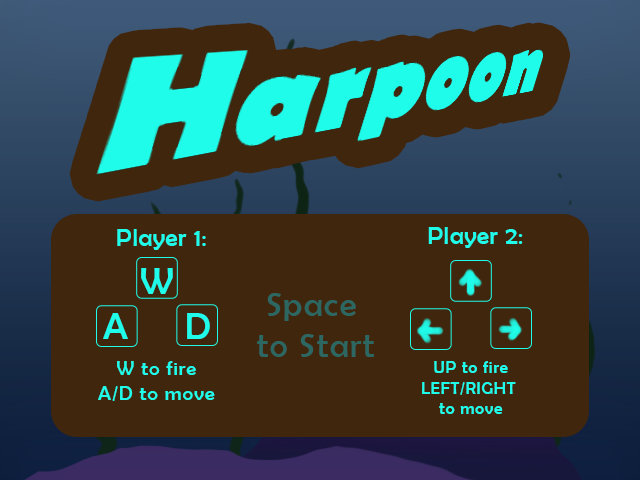
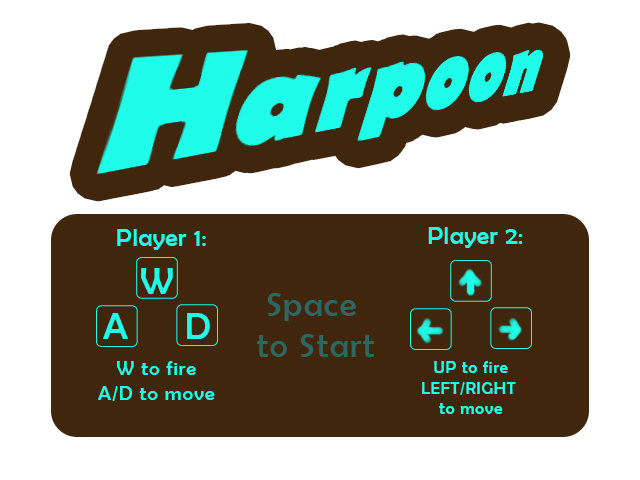
New menu and game over screens, collisons fixed

diff --git a/src/scenes/Play.js b/src/scenes/Play.js
@@ -17,29 +17,19 @@ class Play extends Phaser.Scene {
         this.background2 = this.add.tileSprite(0, 0, 640, 480, 'background2').setOrigin(0,0);
         this.background3 = this.add.tileSprite(0, 0, 640, 480, 'background3').setOrigin(0,0);
         this.background4 = this.add.tileSprite(0, 0, 640, 480, 'background4').setOrigin(0,0);
-        //this.add.text(320, 240, "play scene").setOrigin(0.5, 0.5);
 
-        this.add.rectangle(0, borderUISize + borderPadding, config.width, borderUISize * 2, 0x00ff00).setOrigin(0,0);
+        this.add.rectangle(0, borderUISize + borderPadding, config.width, borderUISize * 2, 0x41260e).setOrigin(0,0);
 
-        //this.add.rectangle(0, 0, config.width, borderUISize, 0xffffff).setOrigin(0,0);
-        //this.add.rectangle(0, config.height-borderUISize, config.width, borderUISize, 0xffffff).setOrigin(0,0);
-        //this.add.rectangle(0, 0, borderUISize, config.height, 0xffffff).setOrigin(0,0);
-        //this.add.rectangle(config.width-borderUISize, 0, borderUISize, config.height, 0xffffff).setOrigin(0,0);
-        //this.add.rectangle(config.width/2, 0, borderPadding, config.height, 0xffffff).setOrigin(0.5, 0);
+        this.p1Harpoon = new Harpoon(this, config.width/4, config.height - borderUISize - borderPadding, 'harpoon').setOrigin(0.5, 0);
+        this.p2Harpoon = new Harpoon(this, 3*config.width/4, config.height - borderUISize - borderPadding, 'harpoon').setOrigin(0.5, 0);
 
-        this.p1Rocket = new Rocket(this, config.width/4, config.height - borderUISize - borderPadding, 'harpoon').setOrigin(0.5, 0);
-        this.p2Rocket = new Rocket(this, 3*config.width/4, config.height - borderUISize - borderPadding, 'harpoon').setOrigin(0.5, 0);
+        this.fish01 = new FishRtoL(this, config.width + borderUISize * 6, borderUISize * 4, 'fish', 0, 30).setOrigin(0, 0);
+        this.fish02 = new FishRtoL(this, config.width + borderUISize * 3, borderUISize * 5 + borderPadding * 2, 'fish', 0, 20).setOrigin(0, 0);
+        this.fish03 = new FishRtoL(this, config.width, borderUISize * 6 + borderPadding * 4, 'fish', 0, 10).setOrigin(0, 0);
 
-        this.ship01 = new Spaceship(this, config.width + borderUISize * 6, borderUISize * 4, 'fish', 0, 30).setOrigin(0, 0);
-        this.ship02 = new Spaceship(this, config.width + borderUISize * 3, borderUISize * 5 + borderPadding * 2, 'fish', 0, 20).setOrigin(0, 0);
-        this.ship03 = new Spaceship(this, config.width, borderUISize * 6 + borderPadding * 4, 'fish', 0, 10).setOrigin(0, 0);
-
-        this.ship04 = new Spaceship(this, 0 - borderUISize * 6, borderUISize * 4, 'fish2', 0, 30).setOrigin(1, 0);
-        this.ship05 = new Spaceship(this, 0 - borderUISize * 3, borderUISize * 5 + borderPadding * 2, 'fish2', 0, 20).setOrigin(1, 0);
-        this.ship06 = new Spaceship(this, 0, borderUISize * 6 + borderPadding * 4, 'fish2', 0, 10).setOrigin(1, 0);
-        this.ship04.dir = 'LtoR';
-        this.ship05.dir = 'LtoR';
-        this.ship06.dir = 'LtoR';
+        this.fish04 = new FishLtoR(this, 0 - borderUISize * 6, borderUISize * 4, 'fish2', 0, 30).setOrigin(1, 0);
+        this.fish05 = new FishLtoR(this, 0 - borderUISize * 3, borderUISize * 5 + borderPadding * 2, 'fish2', 0, 20).setOrigin(1, 0);
+        this.fish06 = new FishLtoR(this, 0, borderUISize * 6 + borderPadding * 4, 'fish2', 0, 10).setOrigin(1, 0);
 
         //Player 1 controls
         keyW = this.input.keyboard.addKey(Phaser.Input.Keyboard.KeyCodes.W);
@@ -66,8 +56,8 @@ class Play extends Phaser.Scene {
         let scoreConfig = {
             fontFamily: 'Courier',
             fontSize: '28px',
-            backgroundColor: '#F3B141',
-            color: '#843605',
+            backgroundColor: '#41260e',
+            color: '#1ffce9',
             align: 'right',
             padding: {
                 top: 5,
@@ -83,8 +73,14 @@ class Play extends Phaser.Scene {
 
         scoreConfig.fixedWidth = 0;
         this.clock = this.time.delayedCall(game.settings.gameTimer, () => {
-            this.add.text(config.width/2, config.height/2, 'GAME OVER', scoreConfig).setOrigin(0.5);
-            this.add.text(config.width/2, config.height/2 + 64, 'Press (R) to Restart or <- for Menu', scoreConfig).setOrigin(0.5);
+            if(this.p1Score > this.p2Score){
+            this.add.text(config.width/2, config.height/2, 'Player 1 Wins!', scoreConfig).setOrigin(0.5);
+            } else if(this.p2Score > this.p1Score){
+                this.add.text(config.width/2, config.height/2, 'Player 2 Wins!', scoreConfig).setOrigin(0.5);
+            } else {
+                this.add.text(config.width/2, config.height/2, 'Draw!', scoreConfig).setOrigin(0.5);
+            }
+            this.add.text(config.width/2, config.height/2 + 64, 'Space to Restart\n\t\tESC for Menu', scoreConfig).setOrigin(0.5);
             this.gameOver = true;
         }, null, this);
     }
@@ -96,12 +92,12 @@ class Play extends Phaser.Scene {
         if(!this.gameOver) {
             this.p1_update();
             this.p2_update();
-            this.shipRtoL_update(this.ship01);
-            this.shipRtoL_update(this.ship02);
-            this.shipRtoL_update(this.ship03);
-            this.shipLtoR_update(this.ship04);
-            this.shipLtoR_update(this.ship05);
-            this.shipLtoR_update(this.ship06);
+            this.fish01.update();
+            this.fish02.update();
+            this.fish03.update();
+            this.fish04.update();
+            this.fish05.update();
+            this.fish06.update();
             
         }
 
@@ -112,152 +108,91 @@ class Play extends Phaser.Scene {
             this.scene.start('menu');
         }
 
-        if(this.RtoLcheckCollision(this.p2Rocket, this.ship01)
-         || this.RtoLcheckCollision(this.p1Rocket, this.ship01)) {
-            this.shipExplode(this.ship01);
-            if(this.p2Rocket.y >= this.ship01.y) {
-                this.p2Rocket.reset();
-            } else {
-                this.p1Rocket.reset();
-            }
+        if(this.checkCollision(this.p2Harpoon, this.fish01)
+         || this.checkCollision(this.p1Harpoon, this.fish01)) {
+            this.shipExplode(this.fish01);
         }
-        if(this.RtoLcheckCollision(this.p2Rocket, this.ship02)
-         || this.RtoLcheckCollision(this.p1Rocket, this.ship02)) {
-            this.shipExplode(this.ship02);
-            if(this.p2Rocket.y >= this.ship02.y) {
-                this.p2Rocket.reset();
-            } else {
-                this.p1Rocket.reset();
-            }
+        if(this.checkCollision(this.p2Harpoon, this.fish06)
+         || this.checkCollision(this.p1Harpoon, this.fish06)) {
+            this.shipExplode(this.fish06);
         }
-        if(this.RtoLcheckCollision(this.p2Rocket, this.ship03)
-         || this.RtoLcheckCollision(this.p1Rocket, this.ship03)) {
-            this.shipExplode(this.ship03);
-            if(this.p2Rocket.y >= this.ship03.y) {
-                this.p2Rocket.reset();
-            } else {
-                this.p1Rocket.reset();
-            }
+        if(this.checkCollision(this.p2Harpoon, this.fish02)
+         || this.checkCollision(this.p1Harpoon, this.fish02)) {
+            this.shipExplode(this.fish02);
         }
-        if(this.LtoRcheckCollision(this.p2Rocket, this.ship04)
-         || this.LtoRcheckCollision(this.p1Rocket, this.ship04)) {
-            this.shipExplode(this.ship04);
-            if(this.p2Rocket.y >= this.ship04.y) {
-                this.p2Rocket.reset();
-            } else {
-                this.p1Rocket.reset();
-            }
+        if(this.checkCollision(this.p2Harpoon, this.fish03)
+         || this.checkCollision(this.p1Harpoon, this.fish03)) {
+            this.shipExplode(this.fish03);
         }
-        if(this.LtoRcheckCollision(this.p2Rocket, this.ship05) 
-        || this.LtoRcheckCollision(this.p1Rocket, this.ship05)) {
-            this.shipExplode(this.ship05);
-            if(this.p2Rocket.y >= this.ship05.y) {
-                this.p2Rocket.reset();
-            } else {
-                this.p1Rocket.reset();
-            }
+        if(this.checkCollision(this.p2Harpoon, this.fish04)
+         || this.checkCollision(this.p1Harpoon, this.fish04)) {
+            this.shipExplode(this.fish04);
         }
-        if(this.LtoRcheckCollision(this.p2Rocket, this.ship06)
-         || this.LtoRcheckCollision(this.p1Rocket, this.ship06)) {
-            this.shipExplode(this.ship06);
-            if(this.p2Rocket.y >= this.ship06.y) {
-                this.p2Rocket.reset();
-            } else {
-                this.p1Rocket.reset();
-            }
+        if(this.checkCollision(this.p2Harpoon, this.fish05)
+         || this.checkCollision(this.p1Harpoon, this.fish05)) {
+            this.shipExplode(this.fish05);
         }
     }
 
     p1_update() {
-        if(!this.p1Rocket.isFiring) {
-            if(keyA.isDown && this.p1Rocket.x >= borderUISize + this.p1Rocket.width) {
-                this.p1Rocket.x -= this.p1Rocket.moveSpeed;
-            } else if(keyD.isDown && this.p1Rocket.x <= config.width/2 - this.p1Rocket.width) {
-                this.p1Rocket.x += this.p1Rocket.moveSpeed;
+        if(!this.p1Harpoon.isFiring) {
+            if(keyA.isDown && this.p1Harpoon.x >= borderUISize + this.p1Harpoon.width) {
+                this.p1Harpoon.x -= this.p1Harpoon.moveSpeed;
+            } else if(keyD.isDown && this.p1Harpoon.x <= config.width/2 - this.p1Harpoon.width) {
+                this.p1Harpoon.x += this.p1Harpoon.moveSpeed;
             }
         }
         if(Phaser.Input.Keyboard.JustDown(keyW)) {
-            if(this.p1Rocket.isFiring === false){
-                this.p1Rocket.sfxRocket.play();
+            if(this.p1Harpoon.isFiring === false){
+                this.p1Harpoon.sfxRocket.play();
             }
-            this.p1Rocket.isFiring = true;
+            this.p1Harpoon.isFiring = true;
         }
-        if(this.p1Rocket.isFiring && this.p1Rocket.y >= borderUISize * 3 + borderPadding) {
-            this.p1Rocket.y -= this.p1Rocket.moveSpeed;
+        if(this.p1Harpoon.isFiring && this.p1Harpoon.y >= borderUISize * 3 + borderPadding) {
+            this.p1Harpoon.y -= this.p1Harpoon.moveSpeed;
         }
-        if(this.p1Rocket.y <= borderUISize * 3 + borderPadding) {
-            this.p1Rocket.isFiring = false;
-            this.p1Rocket.y = config.height - borderUISize - borderPadding;
+        if(this.p1Harpoon.y <= borderUISize * 3 + borderPadding) {
+            this.p1Harpoon.isFiring = false;
+            this.p1Harpoon.y = config.height - borderUISize - borderPadding;
         }
     }
 
     p2_update() {
-        if(!this.p2Rocket.isFiring) {
-            if(keyLEFT.isDown && this.p2Rocket.x >= config.width/2 + this.p2Rocket.width) {
-                this.p2Rocket.x -= this.p2Rocket.moveSpeed;
-            } else if(keyRIGHT.isDown && this.p2Rocket.x <= config.width - borderUISize - this.p2Rocket.width) {
-                this.p2Rocket.x += this.p2Rocket.moveSpeed;
+        if(!this.p2Harpoon.isFiring) {
+            if(keyLEFT.isDown && this.p2Harpoon.x >= config.width/2 + this.p2Harpoon.width) {
+                this.p2Harpoon.x -= this.p2Harpoon.moveSpeed;
+            } else if(keyRIGHT.isDown && this.p2Harpoon.x <= config.width - borderUISize - this.p2Harpoon.width) {
+                this.p2Harpoon.x += this.p2Harpoon.moveSpeed;
             }
         }
         if(Phaser.Input.Keyboard.JustDown(keyUP)) {
-            if(this.p2Rocket.isFiring === false){
-                this.p2Rocket.sfxRocket.play();
+            if(this.p2Harpoon.isFiring === false){
+                this.p2Harpoon.sfxRocket.play();
             }
-            this.p2Rocket.isFiring = true;
+            this.p2Harpoon.isFiring = true;
         }
-        if(this.p2Rocket.isFiring && this.p2Rocket.y >= borderUISize * 3 + borderPadding) {
-            this.p2Rocket.y -= this.p2Rocket.moveSpeed;
+        if(this.p2Harpoon.isFiring && this.p2Harpoon.y >= borderUISize * 3 + borderPadding) {
+            this.p2Harpoon.y -= this.p2Harpoon.moveSpeed;
         }
-        if(this.p2Rocket.y <= borderUISize * 3 + borderPadding) {
-            this.p2Rocket.isFiring = false;
-            this.p2Rocket.y = config.height - borderUISize - borderPadding;
-        }
-    }
-
-    shipLtoR_update(ship) {
-        ship.x += ship.moveSpeed;
-        if(ship.x >= config.width + ship.width) {
-            ship.x = 0;
+        if(this.p2Harpoon.y <= borderUISize * 3 + borderPadding) {
+            this.p2Harpoon.isFiring = false;
+            this.p2Harpoon.y = config.height - borderUISize - borderPadding;
         }
     }
 
-    shipRtoL_update(ship) {
-        ship.x -= ship.moveSpeed;
-        if(ship.x <= 0 - ship.width) {
-            ship.x = config.width;
-        }
-    }
-
-    RtoLcheckCollision(rocket, ship) {
+    checkCollision(rocket, ship) {
         if(rocket.x < ship.x + ship.width && 
             rocket.x + rocket.width > ship.x && 
             rocket.y < ship.y + ship.height && 
-            rocket.height + rocket.y > ship.y) {
-                if(rocket === this.p2Rocket) {
+            rocket.height/4 + rocket.y > ship.y) {
+                if(rocket === this.p2Harpoon) {
                     this.p2Score += ship.point;
                     this.scoreRight.text = this.p2Score;
                 } else {
                     this.p1Score += ship.point;
                     this.scoreLeft.text = this.p1Score;
                 }
-                return true;
-        } else {
-            return false;
-        }
-    }
-
-    LtoRcheckCollision(rocket, ship) {
-        if(rocket.x > ship.x - ship.width && 
-            rocket.x + rocket.width < ship.x && 
-            rocket.y < ship.y + ship.height && 
-            rocket.height + rocket.y > ship.y) {
-                if(rocket === this.p2Rocket) {
-                    this.p2Score += ship.point;
-                    this.scoreRight.text = this.p2Score;
-                } else {
-                    this.p1Score += ship.point;
-                    this.scoreLeft.text = this.p1Score;
-                }
+                rocket.reset();
                 return true;
         } else {
             return false;

diff --git a/src/scenes/Menu.js b/src/scenes/Menu.js
@@ -7,26 +7,24 @@ class Menu extends Phaser.Scene {
         this.load.audio('sfx_explosion', './assets/explosion38.wav');
         this.load.audio('sfx_rocket', './assets/rocket_shot.wav');
         this.load.image('menuImage', './assets/menu.png');
+        this.load.image('background1', './assets/underSea_back.png');
+        this.load.image('background2', './assets/underSea_seaweed.png');
+        this.load.image('background3', './assets/underSea_backRock.png');
+        this.load.image('background4', './assets/underSea_foreground.png');
     }
     create() {
-        let menuConfig = {
-            fontFamily: 'Courier',
-            fontSize: '28px',
-            backgroundColor: '#F3B141',
-            color: '#843605',
-            align: 'right',
-            padding: {
-                top: 5,
-                bottom: 5,
-            },
-            fixedWidth: 0
-        }
-
+        this.background1 = this.add.tileSprite(0, 0, 640, 480, 'background1').setOrigin(0,0);
+        this.background2 = this.add.tileSprite(0, 0, 640, 480, 'background2').setOrigin(0,0);
+        this.background3 = this.add.tileSprite(0, 0, 640, 480, 'background3').setOrigin(0,0);
+        this.background4 = this.add.tileSprite(0, 0, 640, 480, 'background4').setOrigin(0,0);
         this.background = this.add.tileSprite(0, 0, 640, 480, 'menuImage').setOrigin(0,0);
-
         keySPACE = this.input.keyboard.addKey(Phaser.Input.Keyboard.KeyCodes.SPACE);
     }
     update() {
+        this.background.tilePositionX += 0;
+        this.background2.tilePositionX -= 1;
+        this.background3.tilePositionX -= 2;
+        this.background4.tilePositionX -= 3;
         if(Phaser.Input.Keyboard.JustDown(keySPACE)) {
             game.settings = {
                 spaceshipSpeed: 3,

diff --git a/src/prefabs/FishRtoL.js b/src/prefabs/FishRtoL.js
@@ -1,17 +1,19 @@
-class Spaceship extends Phaser.GameObjects.Sprite {
+class FishRtoL extends Phaser.GameObjects.Sprite {
     constructor(scene, x, y, texture, frame, pointValue) {
         super(scene, x, y, texture, frame);
         scene.add.existing(this);
         this.point = pointValue;
         this.moveSpeed = game.settings.spaceshipSpeed;
-        this.dir = 'RtoL';
+    }
+
+    update() {
+        this.x -= this.moveSpeed;
+        if(this.x <= 0 - this.width) {
+            this.x = config.width;
+        }
     }
 
     reset() {
-        if(this.dir === 'RtoL'){
-            this.x = config.width;
-        } else {
-            this.x = 0;
-        }
+        this.x = config.width;
     }
 }

diff --git a/index.html b/index.html
@@ -6,8 +6,9 @@
     <meta name="viewport" content="width=device-width, initial-scale=1.0">
     <title>Rocket Patrol: 2222 A.D.</title>
     <script src= "lib/phaser.js"></script>
-    <script src = "src/prefabs/Spaceship.js"></script>
-    <script src = "src/prefabs/Rocket.js"></script>
+    <script src = "src/prefabs/FishLtoR.js"></script>
+    <script src = "src/prefabs/FishRtoL.js"></script>
+    <script src = "src/prefabs/Harpoon.js"></script>
     <script src = "src/scenes/Menu.js"></script>
     <script src = "src/scenes/Play.js"></script>
     <script src = "src/main.js"></script>

diff --git a/src/prefabs/FishLtoR.js b/src/prefabs/FishLtoR.js
@@ -1,0 +1,19 @@
+class FishLtoR extends Phaser.GameObjects.Sprite {
+    constructor(scene, x, y, texture, frame, pointValue) {
+        super(scene, x, y, texture, frame);
+        scene.add.existing(this);
+        this.point = pointValue;
+        this.moveSpeed = game.settings.spaceshipSpeed;
+    }
+
+    update() {
+        this.x += this.moveSpeed;
+        if(this.x >= config.width + this.width) {
+            this.x = 0;
+        }
+    }
+
+    reset() {
+        this.x = 0;
+    }
+}

diff --git a/src/prefabs/Harpoon.js b/src/prefabs/Harpoon.js
@@ -1,4 +1,4 @@
-class Rocket extends Phaser.GameObjects.Sprite {
+class Harpoon extends Phaser.GameObjects.Sprite {
     constructor(scene, x, y, texture, frame) {
         super(scene, x, y, texture, frame);
 
